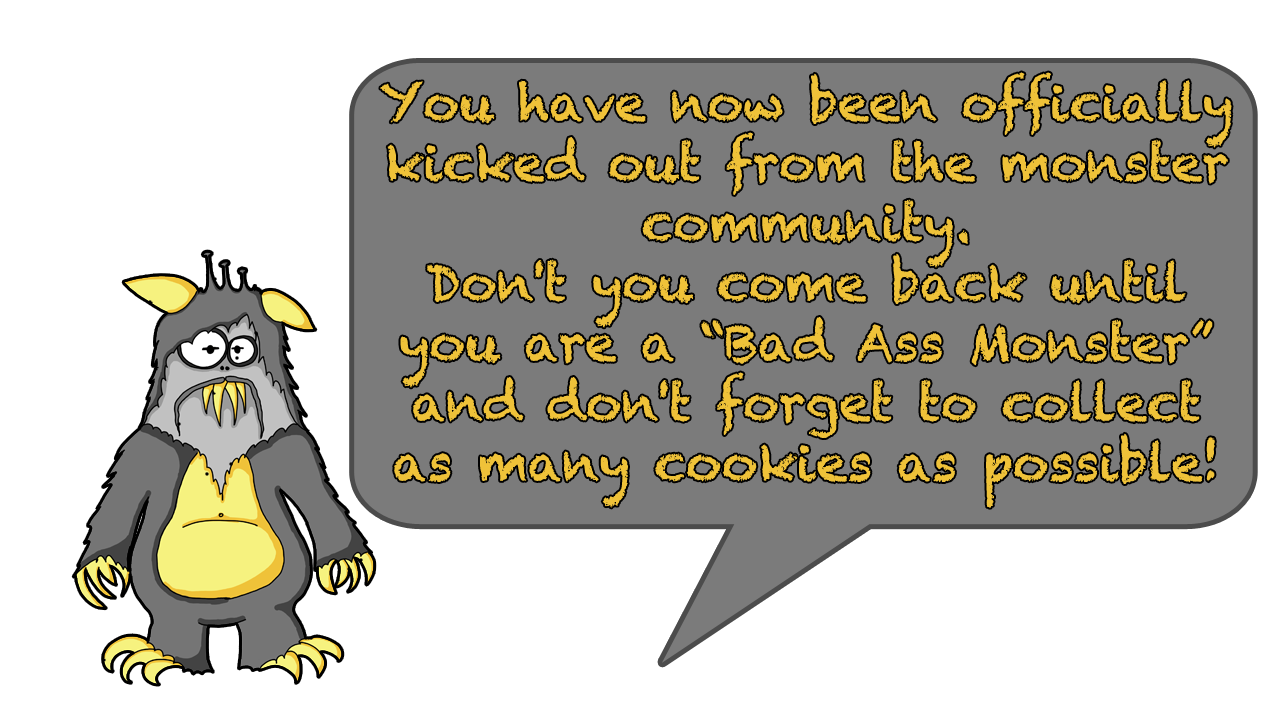
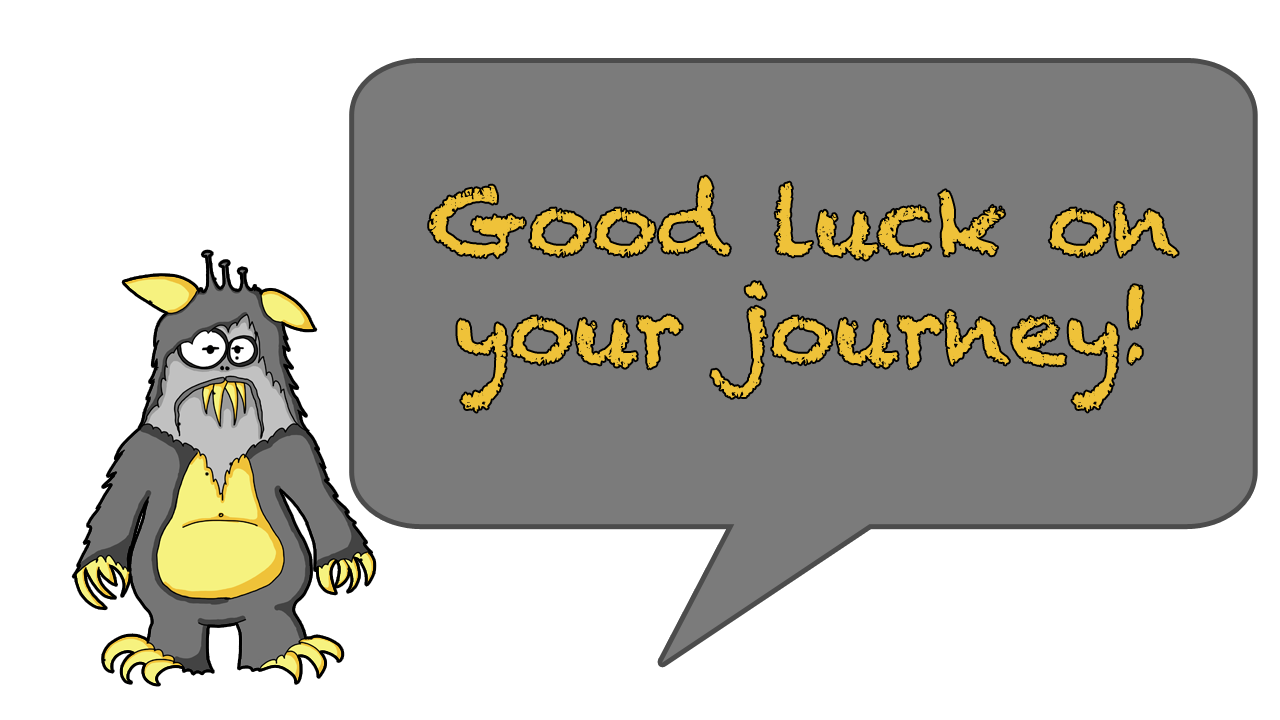
cleaned tutorial signs

Changed region(s): [[0.2812, 0.0917, 0.9688, 0.7028], [0.9375, 0.4278, 0.9688, 0.4583]]

diff --git a/trunk/Platform1/Platform1/PlatformerGame.cs b/trunk/Platform1/Platform1/PlatformerGame.cs
@@ -56,7 +56,6 @@ namespace LearningXNA
         private Texture2D tutorialOverlay6;
         private Texture2D tutorialOverlay7;
         private Texture2D tutorialOverlay8;
-        private Texture2D tutorialOverlay9;
 
         // Meta-level game state.
         private int levelIndex = 1;
@@ -140,7 +139,6 @@ namespace LearningXNA
             tutorialOverlay6 = Content.Load<Texture2D>("Overlays/tutorial6");
             tutorialOverlay7 = Content.Load<Texture2D>("Overlays/tutorial7");
             tutorialOverlay8 = Content.Load<Texture2D>("Overlays/tutorial8");
-            tutorialOverlay9 = Content.Load<Texture2D>("Overlays/tutorial9");
 
 
            MediaPlayer.IsRepeating = true;
@@ -421,9 +419,6 @@ namespace LearningXNA
                         break;
                     case 8:
                         status = tutorialOverlay8;
-                        break;
-                    case 9:
-                        status = tutorialOverlay9;
                         break;
                 }
             }

diff --git a/trunk/Platform1/Platform1/Level.cs b/trunk/Platform1/Platform1/Level.cs
@@ -395,10 +395,8 @@ namespace LearningXNA
                     return LoadTutorialTile("Tutorial", TileCollision.TutorialTile, 6);
                 case 'ő':
                     return LoadTutorialTile("Tutorial", TileCollision.TutorialTile, 7);
-                case 'î':
-                    return LoadTutorialTile("Tutorial", TileCollision.TutorialTile, 8);
                 case 'Ź':
-                    return LoadTutorialTile("Tutorial", TileCollision.TutorialTile, 9);
+                    return LoadTutorialTile("Tutorial", TileCollision.TutorialTile, 8);
 
 
                 // Unknown tile type character
